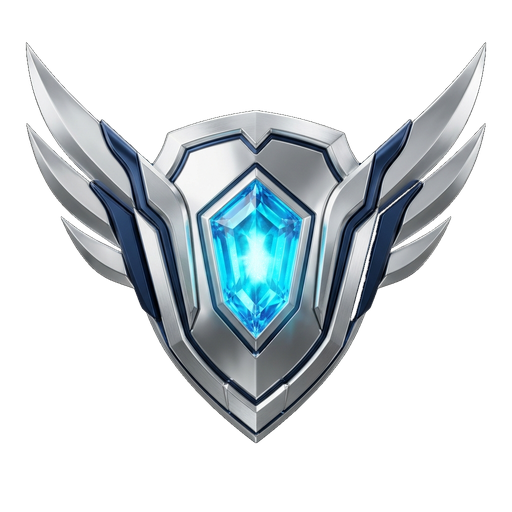
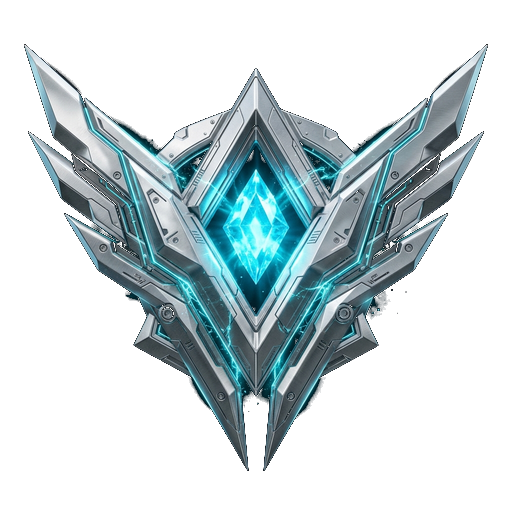
feat(esports): elevate L02-L05 to AAA competitive standards, eradicate crossed swords and medieval shields, and synchronize 10-tier insignia suite

diff --git a/public/badge-showcase.html b/public/badge-showcase.html
@@ -112,16 +112,16 @@
 
   <script>
     const TIERS = [
-      { lvl: '01', name: 'Bronze Initiate', archetype: 'Gladiator Buckler', rarity: 'Common', glow: '#CD7F32', pillBg: 'rgba(205, 127, 50, 0.2)', border: 'rgba(205, 127, 50, 0.5)' },
-      { lvl: '02', name: 'Silver Scout', archetype: 'Falcon Aegis', rarity: 'Uncommon', glow: '#38BDF8', pillBg: 'rgba(56, 189, 248, 0.2)', border: 'rgba(56, 189, 248, 0.5)' },
-      { lvl: '03', name: 'Emerald Ranger', archetype: 'Bio-Plasma Kite', rarity: 'Rare', glow: '#10B981', pillBg: 'rgba(16, 185, 129, 0.2)', border: 'rgba(16, 185, 129, 0.5)' },
-      { lvl: '04', name: 'Sapphire Knight', archetype: 'Titanium Broadsword', rarity: 'Epic', glow: '#3B82F6', pillBg: 'rgba(59, 130, 246, 0.2)', border: 'rgba(59, 130, 246, 0.5)' },
-      { lvl: '05', name: 'Gold Guardian', archetype: 'Sun-Eagle Sovereign', rarity: 'Legendary (ACTIVE)', glow: '#FBBF24', pillBg: 'rgba(251, 191, 36, 0.2)', border: 'rgba(251, 191, 36, 0.6)' },
-      { lvl: '06', name: 'Platinum Hero', archetype: 'Cryo-Amethyst Disc', rarity: 'Ascendant', glow: '#C084FC', pillBg: 'rgba(192, 132, 252, 0.2)', border: 'rgba(192, 132, 252, 0.5)' },
+      { lvl: '01', name: 'Bronze Initiate', archetype: 'Damascus Chevron Vanguard', rarity: 'Common', glow: '#CD7F32', pillBg: 'rgba(205, 127, 50, 0.2)', border: 'rgba(205, 127, 50, 0.5)' },
+      { lvl: '02', name: 'Silver Scout', archetype: 'Titanium Dual-Chevron', rarity: 'Uncommon', glow: '#38BDF8', pillBg: 'rgba(56, 189, 248, 0.2)', border: 'rgba(56, 189, 248, 0.5)' },
+      { lvl: '03', name: 'Emerald Ranger', archetype: 'Cyber-Strike Aegis', rarity: 'Rare', glow: '#10B981', pillBg: 'rgba(16, 185, 129, 0.2)', border: 'rgba(16, 185, 129, 0.5)' },
+      { lvl: '04', name: 'Sapphire Knight', archetype: 'Cobalt Hyper-Drive', rarity: 'Epic', glow: '#3B82F6', pillBg: 'rgba(59, 130, 246, 0.2)', border: 'rgba(59, 130, 246, 0.5)' },
+      { lvl: '05', name: 'Gold Guardian', archetype: 'Apex Gold Solar Aegis', rarity: 'Legendary (ACTIVE)', glow: '#FBBF24', pillBg: 'rgba(251, 191, 36, 0.2)', border: 'rgba(251, 191, 36, 0.6)' },
+      { lvl: '06', name: 'Platinum Hero', archetype: 'Ascendant Platinum Aegis', rarity: 'Ascendant', glow: '#C084FC', pillBg: 'rgba(192, 132, 252, 0.2)', border: 'rgba(192, 132, 252, 0.5)' },
       { lvl: '07', name: 'Diamond Champion', archetype: 'Prismatic Star-Vanguard', rarity: 'Prismatic', glow: '#00F5FF', pillBg: 'rgba(0, 245, 255, 0.2)', border: 'rgba(0, 245, 255, 0.5)' },
       { lvl: '08', name: 'Obsidian Sovereign', archetype: 'Molten Void-Dragon', rarity: 'Sovereign', glow: '#F43F5E', pillBg: 'rgba(244, 63, 94, 0.2)', border: 'rgba(244, 63, 94, 0.5)' },
       { lvl: '09', name: 'Celestial Ascendant', archetype: 'Supernova Corona', rarity: 'Celestial', glow: '#F59E0B', pillBg: 'rgba(245, 158, 11, 0.2)', border: 'rgba(245, 158, 11, 0.5)' },
-      { lvl: '10', name: 'Mythic Legend', archetype: 'Transcendent Relic', rarity: 'Mythic (GOD-TIER)', glow: '#10B981', pillBg: 'rgba(16, 185, 129, 0.2)', border: 'rgba(16, 185, 129, 0.6)' }
+      { lvl: '10', name: 'Mythic Legend', archetype: 'Radiant Apex Relic', rarity: 'Mythic (GOD-TIER)', glow: '#10B981', pillBg: 'rgba(16, 185, 129, 0.2)', border: 'rgba(16, 185, 129, 0.6)' }
     ];
 
     const grid = document.getElementById('badgeGrid');

diff --git a/src/data/levelData.js b/src/data/levelData.js
@@ -47,8 +47,8 @@ export const levels = [
     reward: { type: 'Gems', amount: 5, icon: '/assets/gem.svg' },
     status: 'completed',
     rarity: 'Uncommon',
-    silhouette: 'Winged Shield with Two Inset Gems, Cool Silver-Blue',
-    material: 'Polished Sterling Silver & Blue Topaz',
+    silhouette: 'Aerospace Titanium Dual-Chevron Vanguard, Cyan Particle Vents',
+    material: 'Polished Sterling Silver & Topaz Ion Core',
     color: '#CBD5E1',
     accentColor: '#38BDF8',
     glow: 'rgba(56, 189, 248, 0.55)',
@@ -67,8 +67,8 @@ export const levels = [
     reward: { type: 'VEs', amount: 100, icon: '/assets/ve.svg' },
     status: 'completed',
     rarity: 'Rare',
-    silhouette: 'Pointed Kite Shield, Leaf-Wing Motif, Emerald Gems',
-    material: 'Verdant Obsidian & Faceted Emerald',
+    silhouette: 'Verdant Cyber-Strike Aegis, Chiseled Armor, Hexagonal Emerald Matrix',
+    material: 'Tungsten-Carbide & Faceted Viridian Matrix',
     color: '#10B981',
     accentColor: '#6EE7B7',
     glow: 'rgba(16, 185, 129, 0.60)',
@@ -87,8 +87,8 @@ export const levels = [
     reward: { type: 'Gems', amount: 10, icon: '/assets/gem.svg' },
     status: 'completed',
     rarity: 'Epic',
-    silhouette: 'Hexagonal Shield, Crossed Blades, Deep Sapphire Blue',
-    material: 'Deep Cobalt Sapphire & Refined Titanium',
+    silhouette: 'Cobalt Hyper-Drive Vanguard, Swept Blade-Wings, Sapphire Reactor Core',
+    material: 'Deep Cobalt Titanium & Refined Sapphire Fusion Sphere',
     color: '#2563EB',
     accentColor: '#60A5FA',
     glow: 'rgba(37, 99, 235, 0.70)',
@@ -108,8 +108,8 @@ export const levels = [
     reward: { type: 'VEs', amount: 500, icon: '/assets/ve.svg' },
     status: 'current',
     rarity: 'Legendary',
-    silhouette: 'Ornate Hex Shield, Crown, Large Spread Wings, Warm Gold with Amber Glow',
-    material: 'Warm Cyber Gold & Solar Plasma Core',
+    silhouette: 'Imperial Apex Gold Solar Aegis, 5-Tier Swept Razor Blade-Wings, Fusion Core',
+    material: 'Warm Cyber Gold & Solar Plasma Fusion Core',
     color: '#FBBF24',
     accentColor: '#FEF08A',
     glow: 'rgba(251, 191, 36, 0.85)',

diff --git a/src/components/shared/TierMedallion.jsx b/src/components/shared/TierMedallion.jsx
@@ -22,7 +22,7 @@ export const TIER_CONFIGS = {
   2: {
     level: 2,
     name: 'Silver Scout',
-    silhouette: 'Supersonic Falcon Aegis with Polished Silver Wings & Blue Topaz Core',
+    silhouette: 'Aerospace Titanium Dual-Chevron Vanguard with Cold Cyan Particle Vents',
     primary: '#CBD5E1',
     secondary: '#475569',
     light: '#E2E8F0',
@@ -35,7 +35,7 @@ export const TIER_CONFIGS = {
   3: {
     level: 3,
     name: 'Emerald Ranger',
-    silhouette: 'Gothic Obsidian Kite Shield with Emerald Blades & Radioactive Core',
+    silhouette: 'Verdant Cyber-Strike Aegis with Chiseled Tungsten Armor & Hexagonal Emerald Matrix',
     primary: '#10B981',
     secondary: '#065F46',
     light: '#6EE7B7',
@@ -48,7 +48,7 @@ export const TIER_CONFIGS = {
   4: {
     level: 4,
     name: 'Sapphire Knight',
-    silhouette: 'Hexagonal Titanium Pavise with Crossed Broadswords & Sapphire Reactor',
+    silhouette: 'Cobalt Hyper-Drive Vanguard with Swept Blade-Wings & Pulsating Sapphire Reactor',
     primary: '#3B82F6',
     secondary: '#1E3A8A',
     light: '#93C5FD',
@@ -61,12 +61,12 @@ export const TIER_CONFIGS = {
   5: {
     level: 5,
     name: 'Gold Guardian',
-    silhouette: 'Imperial Sovereign Sun-Eagle with 5-Tier Gold Wings & Crown',
+    silhouette: 'Imperial Apex Gold Solar Aegis with Swept 24K Blade-Wings & Fusion Core',
     primary: '#FBBF24',
     secondary: '#B45309',
     light: '#FEF08A',
     highlight: '#FFFBEB',
-    glow: 'rgba(251, 191, 36, 0.55)',
+    glow: 'rgba(251, 191, 36, 0.75)',
     bannerText: 'LVL 05',
     rarity: 'Legendary',
     assetUrl: '/assets/ranks/rank-lvl-05.png',
@@ -344,7 +344,7 @@ const TierMedallion = ({
           {/* Authentic AAA 3D Esports Rank Insignia */}
           {!imgError ? (
             <img
-              src={`${tier.assetUrl}?v=3d-insignia`}
+              src={`${tier.assetUrl}?v=esports-v4`}
               alt={`${tier.name} Rank Insignia`}
               draggable={false}
               onError={() => setImgError(true)}

diff --git a/src/components/shared/BespokeHeraldry.jsx b/src/components/shared/BespokeHeraldry.jsx
@@ -208,12 +208,11 @@ export const HeraldrySapphire = ({ size = 72, isLocked = false }) => (
       </radialGradient>
     </defs>
 
-    {/* Crossed Titanium Knight Broadswords Behind Shield */}
-    <path d="M12 14 L42 44 M12 14 L16 10 L44 38 L40 42 Z" fill="url(#saphBlade)" stroke="#CBD5E1" strokeWidth="0.8" />
-    <path d="M88 14 L58 44 M88 14 L84 10 L56 38 L60 42 Z" fill="url(#saphBlade)" stroke="#CBD5E1" strokeWidth="0.8" />
-    {/* Sword Guards and Pommels */}
-    <circle cx="14" cy="12" r="3.5" fill="#FBBF24" stroke="#B45309" strokeWidth="0.8" />
-    <circle cx="86" cy="12" r="3.5" fill="#FBBF24" stroke="#B45309" strokeWidth="0.8" />
+    {/* Swept Aerodynamic Titanium Blade-Wings (No Crossed Swords) */}
+    <path d="M14 26 L34 38 L28 54 L8 36 Z" fill="url(#saphBlade)" stroke="#60A5FA" strokeWidth="1" filter="drop-shadow(0 2px 8px rgba(0,0,0,0.5))" />
+    <path d="M86 26 L66 38 L72 54 L92 36 Z" fill="url(#saphBlade)" stroke="#60A5FA" strokeWidth="1" filter="drop-shadow(0 2px 8px rgba(0,0,0,0.5))" />
+    <path d="M6 38 L24 48 L18 62 L2 48 Z" fill="#1E3A8A" stroke="#38BDF8" strokeWidth="0.8" />
+    <path d="M94 38 L76 48 L82 62 L98 48 Z" fill="#1E3A8A" stroke="#38BDF8" strokeWidth="0.8" />
 
     {/* Hexagonal Adamantine Knight's Pavise Shield */}
     <polygon

diff --git a/scripts/process_ranks.py b/scripts/process_ranks.py
@@ -1,0 +1,84 @@
+import sys
+import os
+from PIL import Image
+import numpy as np
+
+def extract_badge(input_path, output_path, target_size=(512, 512)):
+    print(f"Processing: {input_path} -> {output_path}")
+    im = Image.open(input_path).convert("RGBA")
+    w, h = im.size
+    
+    # Resize to target size if needed
+    if (w, h) != target_size:
+        im = im.resize(target_size, Image.Resampling.LANCZOS)
+        w, h = target_size
+
+    arr = np.array(im, dtype=np.float32)
+    rgb = arr[:, :, :3]
+    brightness = np.max(rgb, axis=2) # Peak brightness
+
+    # Connected component floodfill from the 4 corners to find true outer background
+    from collections import deque
+    is_bg = np.zeros((h, w), dtype=bool)
+    visited = np.zeros((h, w), dtype=bool)
+    
+    # Background threshold: pixels under this value connected to borders are background
+    bg_thresh = 18.0
+    
+    queue = deque()
+    # Seed corners and borders
+    for x in range(w):
+        for y in [0, h - 1]:
+            if not visited[y, x] and brightness[y, x] <= bg_thresh:
+                visited[y, x] = True
+                queue.append((x, y))
+    for y in range(h):
+        for x in [0, w - 1]:
+            if not visited[y, x] and brightness[y, x] <= bg_thresh:
+                visited[y, x] = True
+                queue.append((x, y))
+                
+    while queue:
+        cx, cy = queue.popleft()
+        is_bg[cy, cx] = True
+        for dx, dy in [(-1, 0), (1, 0), (0, -1), (0, 1)]:
+            nx, ny = cx + dx, cy + dy
+            if 0 <= nx < w and 0 <= ny < h:
+                if not visited[ny, nx]:
+                    visited[ny, nx] = True
+                    if brightness[ny, nx] <= bg_thresh:
+                        queue.append((nx, ny))
+
+    # Anti-aliased alpha falloff
+    # For background pixels, alpha = 0
+    # For transitional edge pixels (brightness between 12 and 45 connected to bg), calculate smooth alpha
+    alpha = np.ones((h, w), dtype=np.float32) * 255.0
+    
+    # Smooth feathering on border
+    from scipy.ndimage import distance_transform_edt
+    dist = distance_transform_edt(is_bg)
+    
+    for y in range(h):
+        for x in range(w):
+            if is_bg[y, x]:
+                alpha[y, x] = 0.0
+            else:
+                b = brightness[y, x]
+                if b < 38.0:
+                    # Smooth ramp from 0 to 255 between 10 and 38
+                    factor = np.clip((b - 10.0) / 28.0, 0.0, 1.0)
+                    alpha[y, x] = factor * factor * 255.0
+
+    arr[:, :, 3] = alpha
+    result = Image.fromarray(np.uint8(arr), mode="RGBA")
+    
+    # Auto-crop padding slightly if needed and center
+    os.makedirs(os.path.dirname(output_path), exist_ok=True)
+    result.save(output_path, format="PNG", optimize=True)
+    print(f"Successfully saved transparent badge to: {output_path}")
+
+if __name__ == "__main__":
+    if len(sys.argv) >= 3:
+        extract_badge(sys.argv[1], sys.argv[2])
+    else:
+        print("Usage: python process_ranks.py <input_img> <output_png>")
